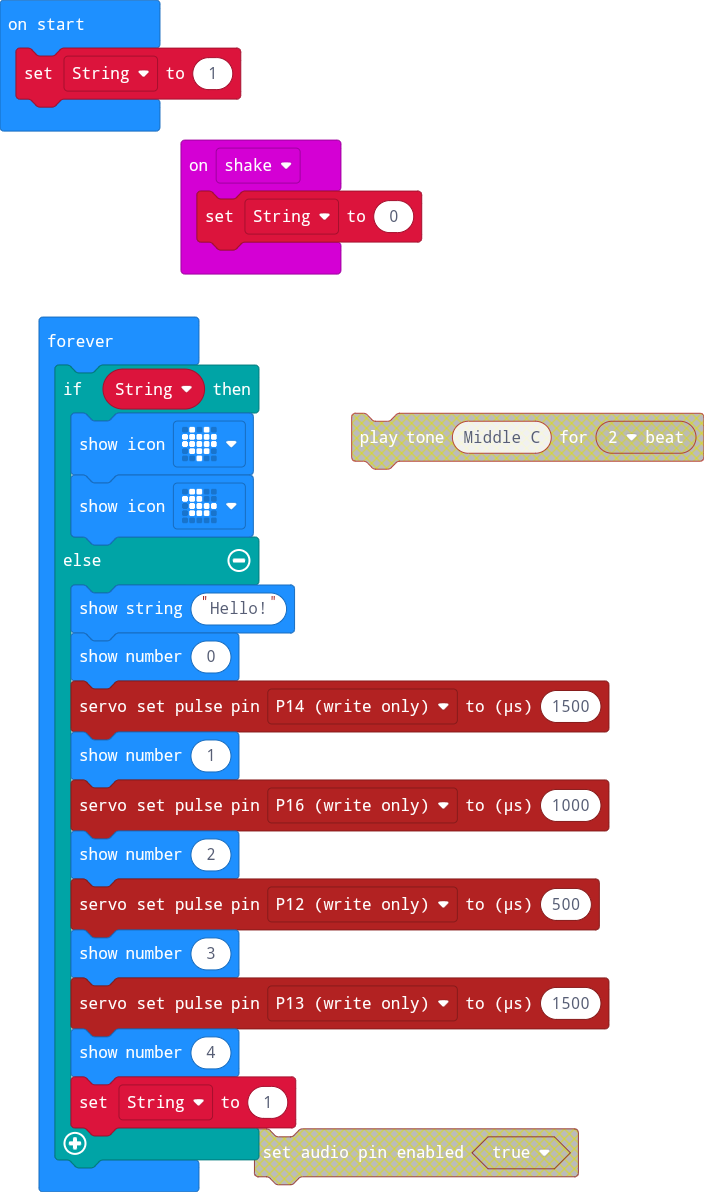
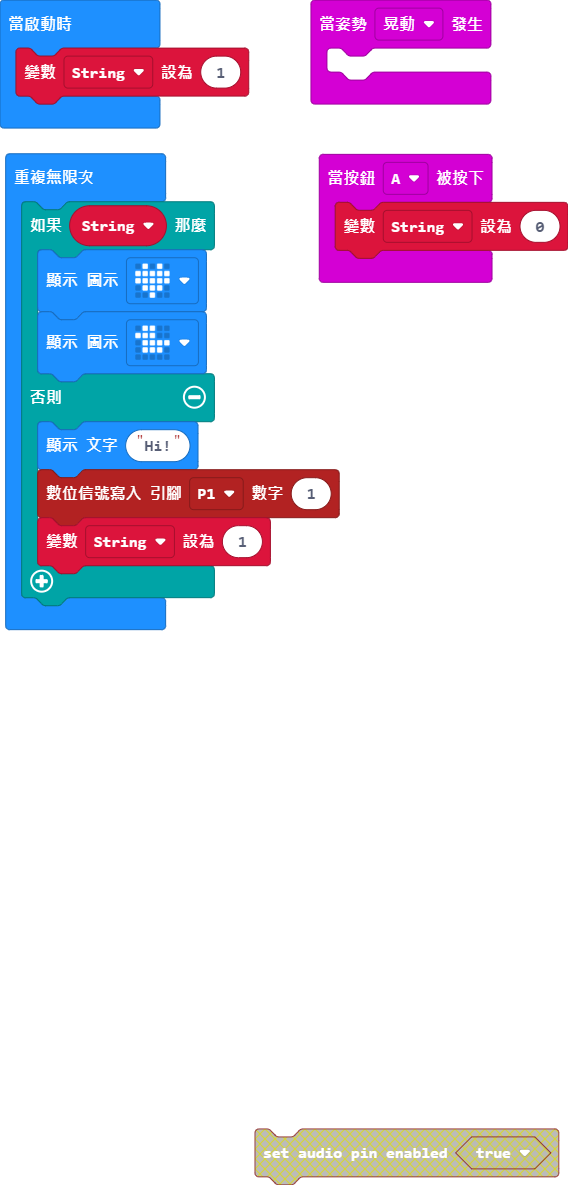
button

diff --git a/main.ts b/main.ts
@@ -1,5 +1,8 @@
-input.onGesture(Gesture.Shake, function () {
+input.onButtonPressed(Button.A, function () {
     String2 = 0
+})
+input.onGesture(Gesture.Shake, function () {
+	
 })
 let String2 = 0
 String2 = 1
@@ -8,16 +11,8 @@ basic.forever(function () {
         basic.showIcon(IconNames.Heart)
         basic.showIcon(IconNames.Duck)
     } else {
-        basic.showString("Hello!")
-        basic.showNumber(0)
-        pins.servoSetPulse(AnalogPin.P14, 1500)
-        basic.showNumber(1)
-        pins.servoSetPulse(AnalogPin.P16, 1000)
-        basic.showNumber(2)
-        pins.servoSetPulse(AnalogPin.P12, 500)
-        basic.showNumber(3)
-        pins.servoSetPulse(AnalogPin.P13, 1500)
-        basic.showNumber(4)
+        basic.showString("Hi!")
+        pins.digitalWritePin(DigitalPin.P1, 1)
         String2 = 1
     }
 })
